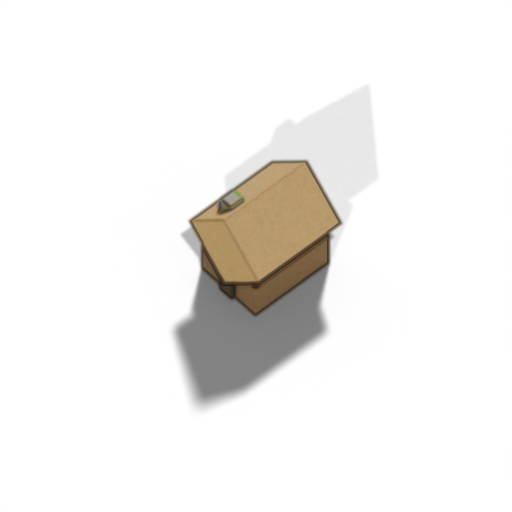
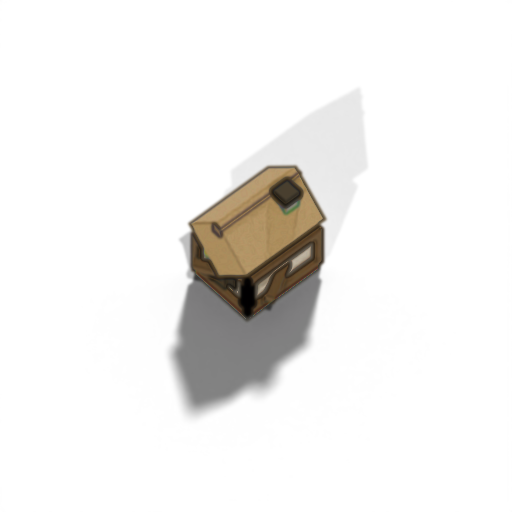
viewer: add Greymarket art asset fidelity pass

Changed region(s): [[0.3125, 0.3125, 0.6875, 0.8125]]

diff --git a/tools/art/render_diorama.py b/tools/art/render_diorama.py
@@ -23,9 +23,13 @@ PAL = {
     "rock": "8b8a82", "rock_dark": "6f6e66", "rock_warm": "9a9384",
     "timber": "73583a", "timber_dark": "5b4429", "thatch": "b08a4a", "thatch_dark": "8f6f38",
     "slate": "6a6f74", "slate_dark": "53585d", "stone": "9a9388", "stone_old": "857f72",
-    "plaster": "c8b48a", "door": "3f2f1c", "field_gold": "9c853f", "field_green": "6f7e3a",
+    "plaster": "d8c39a", "plaster_warm": "e3cda0",
+    "tile": "9a4f31", "tile_dark": "7a3d26", "tile_warm": "b0603a",
+    "door": "3f2f1c", "field_gold": "9c853f", "field_green": "6f7e3a",
     "water": "5b8f96", "water_deep": "4a7d84", "cloth": "d8d2c2", "ink": "2a2012",
     "ember": "c7702e", "soil": "6e5638",
+    # cloaked-figure tones (Godot re-tints the cloak per soul; head/staff stay neutral)
+    "cloak": "8a6a44", "cloak_dark": "5e482e", "skin": "caa074", "staff": "6a4f2a",
 }
 
 def _srgb_to_linear(c):
@@ -266,35 +270,89 @@ def build_crag():
             loc=(sx*0.42, -0.3, 0.1), scale=(0.16, 0.13, 0.12),
             rot=(rng.uniform(-0.3, 0.3), 0, rng.uniform(0, 3.14)), smooth=False, bevel=0.01)
 
-def _house(x, y, w, d, wall, roof, rng, ang=0.0):
-    bh = w * 0.95
+def _beam(x, y, z, sx, sy, sz, ang, tone="timber_dark"):
+    add("primitive_cube_add", rgba(tone), loc=(x, y, z), scale=(sx, sy, sz), rot=(0, 0, ang),
+        bevel=0.004)
+
+def _house(x, y, w, d, wall, roof, rng, ang=0.0, roof_pitch=0.86, eave=1.42, tall=1.0):
+    """A richer dwelling, not a toy box: a STONE BASE COURSE grounds it, the walls carry exposed
+    TIMBER FRAMING (corner posts, top plate, sill, a brace), a HEAVY OVERHANGING pitched roof with
+    a ridge beam crowns it, plus a stone CHIMNEY and a recessed door + window. Proportions are
+    jittered per call so a terrace never reads as repeated stamps."""
+    ca, sa = math.cos(ang), math.sin(ang)
+    base_h = w * 0.26
+    wall_h = w * 1.34 * tall          # tall enough that base + framing read beneath the roof
+    wz0 = base_h
+    wtop = wz0 + wall_h
+    # 1) STONE BASE COURSE — a wider, short plinth of weathered stone
+    add("primitive_cube_add", rgba("stone_old", jitter=0.06, rng=rng),
+        loc=(x, y, base_h*0.5), scale=(w*1.07, d*1.07, base_h*0.5), rot=(0, 0, ang), bevel=0.02)
+    # 2) MAIN WALL — warm plaster/timber infill
     add("primitive_cube_add", rgba(wall, jitter=0.06, rng=rng),
-        loc=(x, y, bh*0.5), scale=(w, d, bh*0.5), rot=(0, 0, ang), bevel=0.015)
-    # pitched roof: a cube rotated 45° on its long axis, scaled to a ridge
-    rz = bh + d*0.62
+        loc=(x, y, wz0 + wall_h*0.5), scale=(w, d, wall_h*0.5), rot=(0, 0, ang), bevel=0.01)
+    # 3) TIMBER FRAMING on the two camera-facing walls — reads as half-timber.
+    #    nx=1 → +X long wall (tangent = local Y, run = d); ny=1 → +Y end wall (tangent = X, run = w).
+    def to_world(lx, ly):
+        return (x + lx*ca - ly*sa, y + lx*sa + ly*ca)
+    def face(nx, ny, run):
+        # corner posts at the two wall ends
+        for s in (-1, 1):
+            lx = w if nx else s*run
+            ly = d if ny else s*run
+            px, py = to_world(lx, ly)
+            _beam(px, py, wz0 + wall_h*0.5, 0.045, 0.045, wall_h*0.5, ang)
+        # top plate + sill run ALONG the wall (plate long-axis = the tangent)
+        cx, cy = to_world(w if nx else 0, d if ny else 0)
+        plate_ang = ang + (1.5708 if nx else 0)   # long wall runs along Y
+        for zz in (wz0 + wall_h*0.94, wz0 + wall_h*0.10):
+            _beam(cx, cy, zz, run, 0.05, 0.05, plate_ang)
+        # a diagonal brace for the crafted read
+        _beam(cx, cy, wz0 + wall_h*0.5, run*0.85, 0.045, 0.045, plate_ang + 0.5)
+    face(1, 0, d)   # +X long wall
+    face(0, 1, w)   # +Y end wall
+    # 4) PITCHED ROOF — a 45°-rotated cube reads as a closed ridge prism (gables capped). Sized so
+    #    its bottom vertex sits just BELOW the wall top: eaves overhang the walls a little, the roof
+    #    CAPS the dwelling instead of engulfing it. `eave` widens the diamond (deeper eaves), `pitch`
+    #    raises the ridge. The gable end stays solid (cube faces), so no open peak.
+    yz = d * eave                      # diamond half-size in the depth/height plane
+    rz = wtop + yz*0.50                # centre so the lower vertex tucks just under the eaves line
     add("primitive_cube_add", rgba(roof, jitter=0.05, rng=rng),
-        loc=(x, y, rz), scale=(w*1.12, d*0.92, d*0.92), rot=(0.785, 0, ang), bevel=0.01)
-    # door
+        loc=(x, y, rz), scale=(w*1.16, yz, yz*roof_pitch), rot=(0.785, 0, ang), bevel=0.008)
+    # ridge beam along the peak
+    ridge_z = rz + yz*1.04*roof_pitch
+    _beam(x, y, ridge_z, w*1.18, 0.05, 0.05, ang, "timber")
+    # 5) CHIMNEY — stone, rear corner, with a darker cap
+    chx = x + (-w*0.55*ca - d*0.4*sa)
+    chy = y + (-w*0.55*sa + d*0.4*ca)
+    add("primitive_cube_add", rgba("stone_old", jitter=0.05, rng=rng),
+        loc=(chx, chy, wtop + yz*0.6), scale=(0.075, 0.075, yz*0.7 + 0.12), rot=(0, 0, ang), bevel=0.01)
+    add("primitive_cube_add", rgba("ink"),
+        loc=(chx, chy, wtop + yz*1.35 + 0.12), scale=(0.092, 0.092, 0.035), rot=(0, 0, ang))
+    # 6) DOOR + window on the +X face, recessed dark
+    dx = x + (w + 0.012)*ca
+    dy = y + (w + 0.012)*sa
     add("primitive_cube_add", rgba("door"),
-        loc=(x + math.cos(ang)*(w+0.01), y + math.sin(ang)*(w+0.01), bh*0.32),
-        scale=(0.02, d*0.22, bh*0.32), rot=(0, 0, ang))
+        loc=(dx, dy, wz0 + wall_h*0.30), scale=(0.02, d*0.20, wall_h*0.30), rot=(0, 0, ang))
+    wx = x + (w + 0.012)*ca - d*0.42*sa
+    wy = y + (w + 0.012)*sa + d*0.42*ca
+    add("primitive_cube_add", rgba("ink"),
+        loc=(wx, wy, wz0 + wall_h*0.58), scale=(0.02, d*0.16, wall_h*0.18), rot=(0, 0, ang))
 
 def build_house_a():
+    # a thatched cottage — smaller, STEEP warm-thatch roof, plaster + dark timber
     rng = random.Random(505)
-    _house(0, 0, 0.42, 0.34, "timber", "thatch", rng)
-    # chimney
-    add("primitive_cube_add", rgba("stone_old"), loc=(0.22, -0.18, 0.62),
-        scale=(0.07, 0.07, 0.34), bevel=0.012)
+    _house(0, 0, 0.40, 0.32, "plaster", "thatch", rng, roof_pitch=1.05, eave=0.82, tall=0.92)
 
 def build_house_b():
+    # a larger timber hall — lower-pitch WARM TILE roof (not cold slate), a lean-to porch off the side
     rng = random.Random(606)
-    _house(0, 0, 0.62, 0.46, "plaster", "slate", rng)
-    add("primitive_cube_add", rgba("stone_old"), loc=(0.3, -0.26, 0.82),
-        scale=(0.08, 0.08, 0.4), bevel=0.012)
-    # timber posts at corners
+    _house(0, 0, 0.58, 0.42, "plaster_warm", "tile", rng, roof_pitch=0.72, eave=0.74, tall=1.06)
+    # lean-to / porch roof off the +Y end — a single sloped panel on two posts
+    add("primitive_cube_add", rgba("tile_dark", jitter=0.05, rng=rng), loc=(0, 0.62, 0.66),
+        scale=(0.5, 0.2, 0.03), rot=(0.5, 0, 0), bevel=0.006)
     for sx in (-1, 1):
-        add("primitive_cube_add", rgba("timber_dark"), loc=(sx*0.58, 0, 0.55),
-            scale=(0.04, 0.04, 0.55))
+        add("primitive_cylinder_add", rgba("timber_dark"), loc=(sx*0.42, 0.74, 0.28),
+            scale=(0.03, 0.03, 1), vertices=6, radius=1, depth=0.56)
 
 def build_keep():
     rng = random.Random(707)
@@ -418,6 +476,84 @@ def build_field():
         add("primitive_cylinder_add", rgba("timber_dark"), loc=(-0.9, -0.7 + i*0.45, 0.1),
             scale=(0.02, 0.02, 1), vertices=5, radius=1, depth=0.22)
 
+def _stall(seed, awnA, awnB):
+    """A scene-DEFINING market stall (not tiny clutter): four timber posts, a heavy plank counter
+    laden with goods, barrels beneath, and a big PEAKED STRIPED CANVAS AWNING with deep overhang
+    and a scalloped front valance. Two awning colours per call so the market reads varied."""
+    rng = random.Random(seed)
+    w, d = 0.46, 0.40
+    postH = 0.66
+    for sx in (-1, 1):
+        for sy in (-1, 1):
+            add("primitive_cylinder_add", rgba("timber_dark", jitter=0.06, rng=rng),
+                loc=(sx*w*0.82, sy*d*0.82, postH*0.5), scale=(0.028, 0.028, 1),
+                vertices=6, radius=1, depth=postH)
+    # heavy plank counter along the front (+Y), with a couple of trestle legs
+    add("primitive_cube_add", rgba("timber", jitter=0.05, rng=rng), loc=(0, d*0.78, 0.36),
+        scale=(w*0.96, 0.07, 0.045), bevel=0.008)
+    # goods on the counter — mounded produce + a stacked crate
+    for (gx, tone) in [(-0.26, "field_gold"), (-0.05, "ember"), (0.18, "leaf_mid")]:
+        add("primitive_ico_sphere_add", rgba(tone, jitter=0.12, rng=rng),
+            loc=(gx, d*0.78, 0.45), scale=(0.07, 0.07, 0.05), subdivisions=2, radius=1, smooth=True)
+    add("primitive_cube_add", rgba("timber", jitter=0.08, rng=rng), loc=(0.28, d*0.62, 0.46),
+        scale=(0.06, 0.06, 0.06), rot=(0, 0, 0.4), bevel=0.006)
+    # barrels beneath the counter
+    for bx in (-0.24, 0.0):
+        add("primitive_cylinder_add", rgba("timber_dark", jitter=0.07, rng=rng),
+            loc=(bx, d*0.5, 0.12), scale=(0.075, 0.075, 1), vertices=12, radius=1, depth=0.24)
+    # hanging sack from a front post
+    add("primitive_ico_sphere_add", rgba("cloth", jitter=0.05, rng=rng),
+        loc=(-w*0.82, d*0.7, 0.5), scale=(0.06, 0.06, 0.08), subdivisions=2, radius=1, smooth=True)
+    # PEAKED STRIPED AWNING — a ridge prism (awnA) with awnB stripes running down both slopes
+    az = postH + 0.04
+    aw, ad = w*1.34, d*1.5
+    add("primitive_cube_add", rgba(awnA, jitter=0.04, rng=rng), loc=(0, 0, az + ad*0.32),
+        scale=(aw, ad*0.62, ad*0.62), rot=(0.785, 0, 0), bevel=0.004)
+    for i in range(-2, 3):
+        add("primitive_cube_add", rgba(awnB, jitter=0.04, rng=rng), loc=(i*0.155, 0, az + ad*0.325),
+            scale=(0.05, ad*0.625, ad*0.625), rot=(0.785, 0, 0))
+    # scalloped valance hanging off the front eave
+    for i in range(-3, 4):
+        add("primitive_cube_add", rgba(awnA if i % 2 else awnB, jitter=0.04, rng=rng),
+            loc=(i*0.12, d*0.92, az + 0.02), scale=(0.05, 0.015, 0.055), bevel=0.004)
+
+def build_stall_a():
+    _stall(160, "tile_warm", "cloth")     # warm red + cream
+
+def build_stall_b():
+    _stall(170, "water_deep", "cloth")    # teal + cream
+
+def _figure(seed, staff=False):
+    """A tiny mythic diorama FIGURE: a strong cloaked-body silhouette (tapered cloak cone + hood +
+    a peeking face), optionally bearing a staff. Cloak baked warm-neutral — Godot re-tints per soul.
+    Read at sprite size it is a person, not a dot."""
+    rng = random.Random(seed)
+    lean = rng.uniform(-0.06, 0.06)
+    # cloak — a tapered cone, wide hem to narrow shoulders
+    add("primitive_cone_add", rgba("cloak", jitter=0.05, rng=rng), loc=(0, 0, 0.30),
+        scale=(0.19, 0.16, 1), vertices=14, radius1=1, radius2=0.42, depth=0.60,
+        rot=(lean, 0, rng.uniform(0, 3.14)), smooth=True)
+    # a darker fold down the front for depth
+    add("primitive_cube_add", rgba("cloak_dark", jitter=0.06, rng=rng), loc=(0, 0.07, 0.30),
+        scale=(0.03, 0.02, 0.26), rot=(lean, 0, 0))
+    # shoulders cap
+    add("primitive_ico_sphere_add", rgba("cloak", jitter=0.05, rng=rng), loc=(0, 0, 0.60),
+        scale=(0.13, 0.12, 0.09), subdivisions=2, radius=1, smooth=True)
+    # hood + peeking face
+    add("primitive_ico_sphere_add", rgba("cloak_dark", jitter=0.04, rng=rng), loc=(0, -0.01, 0.74),
+        scale=(0.085, 0.085, 0.10), subdivisions=2, radius=1, smooth=True)
+    add("primitive_ico_sphere_add", rgba("skin", jitter=0.05, rng=rng), loc=(0, 0.05, 0.73),
+        scale=(0.055, 0.05, 0.06), subdivisions=2, radius=1, smooth=True)
+    if staff:
+        add("primitive_cylinder_add", rgba("staff", jitter=0.05, rng=rng), loc=(0.16, 0.02, 0.42),
+            scale=(0.016, 0.016, 1), vertices=6, radius=1, depth=0.84, rot=(0.04, 0.02, 0))
+
+def build_figure():
+    _figure(180)
+
+def build_figure_staff():
+    _figure(190, staff=True)
+
 def build_banner():
     rng = random.Random(140)
     # taller pole + brass finial; a fuller, clearer flag with a triangular pennant above it so
@@ -464,6 +600,10 @@ BUILDERS = {
     "crag": build_crag,
     "house_a": build_house_a,
     "house_b": build_house_b,
+    "stall_a": build_stall_a,
+    "stall_b": build_stall_b,
+    "figure": build_figure,
+    "figure_staff": build_figure_staff,
     "keep": build_keep,
     "watchtower": build_watchtower,
     "standing_stones": build_standing_stones,
@@ -654,16 +794,25 @@ def main():
     cam = make_camera(scene)
     setup_lights(scene)
 
+    # LM_ONLY="house_a,stall_a" renders just those props (fast iteration); else render all.
+    only = [s for s in os.environ.get("LM_ONLY", "").split(",") if s]
+
     done = []
     for name, builder in BUILDERS.items():
-        clear_meshes()
-        add_shadow_catcher()
-        builder()
-        frame_camera(cam)
-        scene.render.filepath = os.path.join(outdir, name + ".png")
-        bpy.ops.render.render(write_still=True)
-        done.append(name)
-        print(f"[diorama] rendered {name}.png")
+        if only and name not in only:
+            continue
+        try:
+            clear_meshes()
+            add_shadow_catcher()
+            builder()
+            frame_camera(cam)
+            scene.render.filepath = os.path.join(outdir, name + ".png")
+            bpy.ops.render.render(write_still=True)
+            done.append(name)
+            print(f"[diorama] rendered {name}.png")
+        except Exception as ex:
+            print(f"[diorama] FAILED {name}: {ex}")
+            import traceback; traceback.print_exc()
 
     # ---- second pass: top-down OPAQUE ground swatches (different camera + flat even light) -------
     bpy.ops.object.select_all(action="SELECT")
@@ -684,6 +833,8 @@ def main():
     go.rotation_euler = (math.radians(8), 0, math.radians(-30))
     scene.world.node_tree.nodes["Background"].inputs["Strength"].default_value = 0.95
     for name, builder in GROUNDS.items():
+        if only and name not in only:
+            continue
         clear_meshes()
         builder()
         scene.render.filepath = os.path.join(outdir, name + ".png")

diff --git a/godot/PrototypeGreymarket.cs b/godot/PrototypeGreymarket.cs
@@ -733,11 +733,13 @@ public partial class GreymarketCanvas : Control
         }
 
         AddWell(draws, 11, 11);
+        int stallIdx = 0;
         foreach (var (sx, sy) in _stalls)
         {
             int fx = sx, fy = sy;
+            string skey = (stallIdx++ % 2 == 0) ? "stall_a" : "stall_b";
             var p = Iso(sx, sy);
-            draws.Add((p.Y, () => DrawStall(fx, fy)));
+            draws.Add((p.Y, () => Billboard(skey, fx, fy, 1.7f, KeyLight(fx, fy))));
         }
 
         foreach (var (gx, gy) in new (float, float)[] { (9.5f, 10f), (12.5f, 12f) })
@@ -751,7 +753,7 @@ public partial class GreymarketCanvas : Control
         {
             float fgx = gx, fgy = gy; int fv = variant;
             var p = Iso(gx, gy);
-            draws.Add((p.Y, () => DrawPerson(fgx, fgy, fv)));
+            draws.Add((p.Y, () => DrawFigure(fgx, fgy, fv)));
         }
 
         foreach (var d in draws.OrderBy(d => d.sortY)) d.draw();
@@ -911,6 +913,23 @@ public partial class GreymarketCanvas : Control
         DrawSetTransform(Vector2.Zero, 0, Vector2.One);
         var rect = new Rect2(p.X - sz / 2f, p.Y - sz * 0.82f, sz, sz);
         DrawTextureRect(tex, rect, false, mod);
+    }
+
+    // billboard a tiny cloaked diorama figure (Blender asset), cloak re-tinted per variant so the
+    // crowd reads as differently-robed folk — a stronger silhouette than the old drawn ball+rect.
+    private void DrawFigure(float gx, float gy, int variant)
+    {
+        string key = variant == 2 ? "figure_staff" : "figure";
+        // mods may exceed 1.0 — they LIFT the mid-tone tan cloak texture into a vivid robe while
+        // the multiply keeps the baked ink outline/shading. Three robes for a lively, varied crowd.
+        var cloak = variant switch
+        {
+            0 => new Color(1.85f, 1.05f, 0.52f),   // warm ochre robe
+            1 => new Color(0.70f, 1.25f, 1.12f),   // cool teal traveller
+            _ => new Color(1.70f, 0.70f, 0.48f),   // rust-red cloak
+        };
+        var tint = cloak * KeyLight(gx, gy);
+        Billboard(key, gx, gy, 0.82f, tint);
     }
 
     private void DrawPerson(float gx, float gy, int variant)
